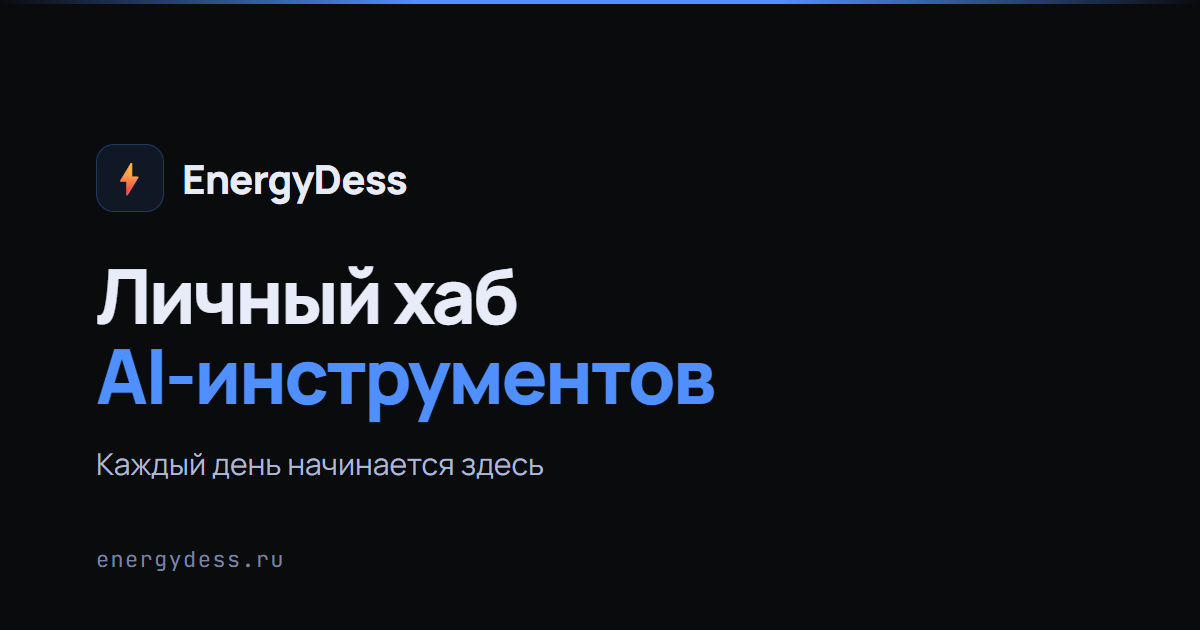
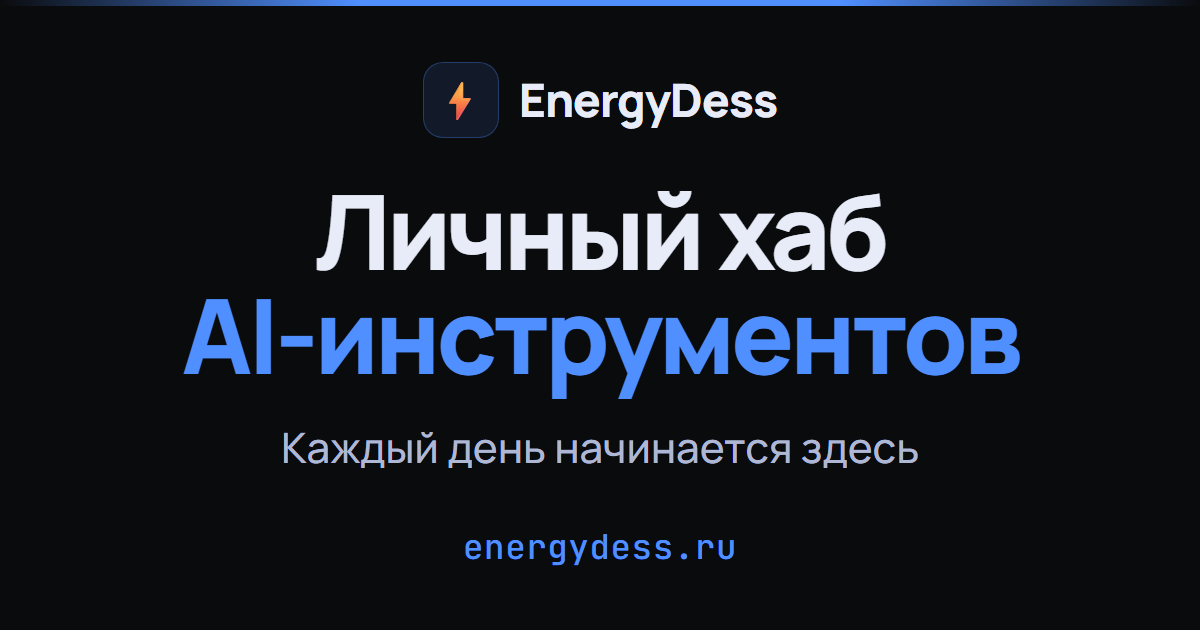
feat(seo): витрина инструмента для неавторизованных + новая og-картинка
Превью инструментов не работало вовсе: /hh за авторизацией, робот
Telegram приходит без куки, получает 302 на /login и считывает мета-теги
формы входа. В карточке было «Вход — EnergyDess» вместо HH-ассистента.
То же видел и любой человек, которому отправляли ссылку.

Вместо редиректа неавторизованный получает витрину: иконка с per-tool
акцентом, категорийная метка, название и описание из TOOLS, кнопки
«Войти» и «Создать аккаунт». Контента и данных инструмента на ней нет.

Одно и то же отдаётся людям и роботам. Развилка по User-Agent была бы
клоакингом: поисковик индексирует описание инструмента, человек по той
же ссылке видит форму входа — за такое расхождение понижают в выдаче.
Бонусом не нужен список User-Agent'ов, который пришлось бы поддерживать.

Шаблон один на четыре инструмента, meta_tool подтягивает название,
описание и акцент — дублирования нет.

Возврат по next: с витрины кнопка ведёт на /login?next=/hh, после входа
человек попадает в тот инструмент, с которого начал. _safe_next
пропускает только внутренние пути: «//чужой.сайт» и «https://…»
отбрасываются, иначе форма входа стала бы открытым редиректом для
маскировки фишинга под наш домен. Поле переживает неудачные попытки.

og.png переделана: текст крупный (заголовок 104px, адрес 34px),
композиция по центру с равными отступами, низ заполнен. Прежняя была
рассчитана на просмотр в полный размер, а в ленте картинка мелкая.

Проверено: гость видит четыре витрины со своими акцентами (синий,
[…]

diff --git a/templates/tool_preview.html b/templates/tool_preview.html
@@ -1,0 +1,82 @@
+<!DOCTYPE html>
+<html lang="ru">
+<head>
+  <meta charset="UTF-8">
+  <meta name="viewport" content="width=device-width, initial-scale=1.0">
+  {% set meta_tool = tool.id %}
+  {% include '_meta.html' %}
+  <link rel="icon" href="/static/favicon.svg" type="image/svg+xml">
+  <link rel="preconnect" href="https://fonts.googleapis.com">
+  <link rel="preconnect" href="https://fonts.gstatic.com" crossorigin>
+  <link rel="stylesheet" href="/static/style.css">
+  <style>
+    /* Витрина инструмента для неавторизованных. Раньше здесь был редирект на
+       /login: ссылка на инструмент вела в тупик — человек попадал на голую
+       форму, не понимая, куда пришёл, а роботы превью считывали мета-теги
+       формы входа вместо описания инструмента.
+       Отдаём одно и то же людям и роботам: подмена по User-Agent — это
+       клоакинг, за расхождение выдачи и страницы понижают в поиске. */
+    .tp-wrap {
+      min-height: calc(100vh - 64px);
+      display: flex; align-items: center; justify-content: center;
+      padding: var(--space-7) var(--space-4);
+    }
+    .tp-card { max-width: 560px; width: 100%; text-align: center; }
+    .tp-icon {
+      width: 72px; height: 72px; margin: 0 auto var(--space-5);
+      border-radius: var(--radius-md);
+      display: flex; align-items: center; justify-content: center;
+      background: var(--tool-accent-dim, var(--accent-brand-dim));
+      color: var(--tool-accent, var(--accent-brand));
+    }
+    .tp-icon svg { width: 36px; height: 36px; stroke-width: 1.5; }
+    .tp-eyebrow {
+      font-family: var(--font-mono); font-size: var(--text-mono);
+      letter-spacing: 0.1em; text-transform: uppercase;
+      color: var(--tool-accent, var(--accent-brand));
+      display: block; margin-bottom: var(--space-3);
+    }
+    .tp-card h1 { font-size: var(--text-h1); font-weight: 700; color: var(--text); margin-bottom: var(--space-4); }
+    .tp-desc { font-size: var(--text-body-lg); color: var(--text-2); line-height: 1.6; margin-bottom: var(--space-6); }
+    .tp-actions { display: flex; gap: var(--space-3); justify-content: center; flex-wrap: wrap; }
+    .tp-note { margin-top: var(--space-5); font-size: var(--text-caption); color: var(--text-faint); }
+    .tp-note a { color: var(--tool-accent, var(--accent-brand)); text-decoration: none; }
+    .tp-note a:hover { text-decoration: underline; }
+    @media (max-width: 480px) {
+      .tp-actions { flex-direction: column; }
+      .tp-actions > * { width: 100%; }
+    }
+  </style>
+</head>
+<body class="has-site-header tool-{{ tool.id }}">
+
+{% include '_header.html' %}
+
+<main class="container tp-wrap">
+  <div class="card tp-card">
+    <div class="tp-icon"><i data-lucide="{{ icon }}"></i></div>
+    <span class="tp-eyebrow">{{ eyebrow }}</span>
+    <h1>{{ tool.name }}</h1>
+    <p class="tp-desc">{{ tool.desc }}</p>
+
+    <div class="tp-actions">
+      {# next возвращает человека в тот инструмент, с которого он начал,
+         а не на главную — иначе путь «ссылка → вход → ищи заново» #}
+      <a href="/login?next={{ tool.url | urlencode }}" class="btn-primary">Войти</a>
+      <a href="/register" class="btn-secondary">Создать аккаунт</a>
+    </div>
+
+    <p class="tp-note">
+      Инструмент доступен после входа.
+      <a href="/">Посмотреть все инструменты →</a>
+    </p>
+  </div>
+</main>
+
+{% include '_footer.html' %}
+
+<script src="https://unpkg.com/lucide@latest"></script>
+<script src="/static/ui.js"></script>
+<script>lucide.createIcons();</script>
+</body>
+</html>

diff --git a/templates/login.html b/templates/login.html
@@ -35,6 +35,9 @@
     {% endif %}
 
     <form method="post" action="/login">
+      {# Куда вернуться после входа: с витрины инструмента — в него самого,
+         а не на главную. Пустое значение = на главную #}
+      <input type="hidden" name="next" value="{{ next or '' }}">
       <div class="form-group">
         <label>Email</label>
         <input type="email" name="email" placeholder="you@example.com" value="{{ email or '' }}" required autocomplete="email">

diff --git a/main.py b/main.py
@@ -161,6 +161,46 @@ def user_has_access(user: User, tool_id: str, db: Session) -> bool:
     ).first() is not None
 
 
+# Иконка Lucide и категорийная метка по id инструмента. Живут здесь, а не в
+# TOOLS: TOOLS — источник текстов, а это оформление (design-system.md, раздел 7)
+TOOL_ICONS = {"hh": "briefcase", "nutrition": "salad", "workout": "dumbbell", "enshrouded": "shield"}
+TOOL_EYEBROWS = {"hh": "Карьера", "nutrition": "Питание",
+                 "workout": "Тренировки", "enshrouded": "Игры · Enshrouded"}
+
+
+def _safe_next(next_url: str) -> str:
+    """Куда вернуть человека после входа. Только внутренний путь сайта.
+
+    Внешние адреса и протокол-относительные («//чужой.сайт») отбрасываются:
+    иначе форма входа становится открытым редиректом, которым удобно
+    маскировать фишинговые ссылки под наш домен.
+    """
+    if not next_url or not next_url.startswith("/") or next_url.startswith("//"):
+        return "/"
+    return next_url
+
+
+def _tool_preview(request: Request, tool_id: str):
+    """Витрина инструмента для неавторизованных — вместо редиректа на /login.
+
+    Раньше ссылка на инструмент вела в тупик: человек попадал на голую форму
+    входа, не понимая, куда пришёл, а роботы превью считывали мета-теги формы
+    вместо описания инструмента — в Telegram карточка /hh называлась «Вход».
+
+    Роботам и людям отдаётся одно и то же. Развилка по User-Agent была бы
+    клоакингом: поисковик индексирует одно, человек видит другое — расхождение
+    ровно того типа, за которое понижают в выдаче.
+    """
+    tool = next((t for t in TOOLS if t["id"] == tool_id), None)
+    if not tool:
+        return RedirectResponse("/login", status_code=302)
+    return templates.TemplateResponse(
+        request=request, name="tool_preview.html",
+        context={"tool": tool,
+                 "icon": TOOL_ICONS.get(tool_id, "box"),
+                 "eyebrow": TOOL_EYEBROWS.get(tool_id, "Инструмент")})
+
+
 def _verification_gate(request: Request, user: User, tool_name: str, db: Session = None):
     """Плашка "подтвердите email" вместо инструмента, если is_verified явно False.
     None (is_verified не заполнен у старых аккаунтов) — не блокирует.
@@ -967,9 +1007,9 @@ async def register(
 
 @app.get("/login")
 async def login_page(request: Request, user=Depends(get_current_user),
-                     verified: str = None, error: str = None):
+                     verified: str = None, error: str = None, next: str = None):
     if user:
-        return RedirectResponse("/", status_code=302)
+        return RedirectResponse(_safe_next(next), status_code=302)
     # Капчу показываем уже при открытии формы, если с этого IP было
     # достаточно неудач: иначе человек заполнит поля, отправит и только
     # тогда узнает, что нужна ещё и проверка
@@ -986,7 +1026,7 @@ async def login_page(request: Request, user=Depends(get_current_user),
         msg = "Ссылка устарела — войдите в аккаунт, там можно отправить новую ссылку"
     return templates.TemplateResponse(
         request=request, name="login.html",
-        context={"error": None, "info": msg,
+        context={"error": None, "info": msg, "next": _safe_next(next),
                  "turnstile_site_key": TURNSTILE_SITE_KEY if нужна_капча else None})
 
 
@@ -996,6 +1036,7 @@ async def login(
     email: str = Form(...),
     password: str = Form(...),
     turnstile_token: str = Form(default="", alias="cf-turnstile-response"),
+    next: str = Form(default=""),
     db: Session = Depends(get_db),
 ):
     email = email.strip().lower()
@@ -1016,7 +1057,8 @@ async def login(
         return templates.TemplateResponse(
             request=request, name="login.html", status_code=429,
             context={"error": f"Слишком много попыток входа. Попробуйте через {осталось} мин.",
-                     "email": email, "turnstile_site_key": TURNSTILE_SITE_KEY if нужна_капча else None})
+                     "email": email, "next": _safe_next(next),
+                     "turnstile_site_key": TURNSTILE_SITE_KEY if нужна_капча else None})
 
     # ── Капча после нескольких неудач ────────────────────────────────────────
     # fail-open: пустой токен (виджет не загрузился ЛИБО проверку не прошли —
@@ -1039,7 +1081,8 @@ async def login(
                 return templates.TemplateResponse(
                     request=request, name="login.html", status_code=400,
                     context={"error": "Не удалось подтвердить, что вы не робот",
-                             "email": email, "turnstile_site_key": TURNSTILE_SITE_KEY})
+                             "email": email, "next": _safe_next(next),
+                             "turnstile_site_key": TURNSTILE_SITE_KEY})
 
     user = db.query(User).filter(User.email == email).first()
 
@@ -1059,6 +1102,7 @@ async def login(
         return templates.TemplateResponse(
             request=request, name="login.html",
             context={"error": "Неверный email или пароль", "email": email,
+                     "next": _safe_next(next),
                      "turnstile_site_key": TURNSTILE_SITE_KEY if показать_капчу else None})
 
     # Успешный вход — счётчик этого IP обнуляется: владелец доказал, что он владелец
@@ -1069,7 +1113,8 @@ async def login(
     # блокировка происходит на уровне конкретного инструмента (см. _verification_gate),
     # где есть кнопка повторной отправки письма (/resend-verification).
     token = create_token(user.id)
-    response = RedirectResponse("/", status_code=302)
+    # Возврат туда, откуда пришли (витрина инструмента), а не на главную
+    response = RedirectResponse(_safe_next(next), status_code=302)
     response.set_cookie("access_token", token, httponly=True, max_age=60 * 60 * 24 * 30, samesite="lax")
     return response
 
@@ -1571,7 +1616,7 @@ async def admin_exercise_replace_video(exercise_id: str, request: Request, user=
 @app.get("/enshrouded")
 async def enshrouded_page(request: Request, user=Depends(get_current_user), db: Session = Depends(get_db)):
     if not user:
-        return RedirectResponse("/login", status_code=302)
+        return _tool_preview(request, "enshrouded")
     gate = _verification_gate(request, user, "Enshrouded", db)
     if gate:
         return gate
@@ -1651,7 +1696,7 @@ async def import_enshrouded_state(request: Request, user=Depends(get_current_use
 @app.get("/hh")
 async def hh_page(request: Request, user=Depends(get_current_user), db: Session = Depends(get_db)):
     if not user:
-        return RedirectResponse("/login", status_code=302)
+        return _tool_preview(request, "hh")
     gate = _verification_gate(request, user, "HH-ассистент", db)
     if gate:
         return gate
@@ -2646,7 +2691,7 @@ def _diary_totals(logs: list) -> dict:
 @app.get("/nutrition")
 async def nutrition_page(request: Request, user=Depends(get_current_user), db: Session = Depends(get_db)):
     if not user:
-        return RedirectResponse("/login", status_code=302)
+        return _tool_preview(request, "nutrition")
     gate = _verification_gate(request, user, "Дневник питания", db)
     if gate:
         return gate
@@ -3622,7 +3667,7 @@ def _workout_equipment_checklist(db: Session):
 @app.get("/workout")
 async def workout_page(request: Request, user=Depends(get_current_user), db: Session = Depends(get_db)):
     if not user:
-        return RedirectResponse("/login", status_code=302)
+        return _tool_preview(request, "workout")
     gate = _verification_gate(request, user, "Программа тренировок", db)
     if gate:
         return gate
